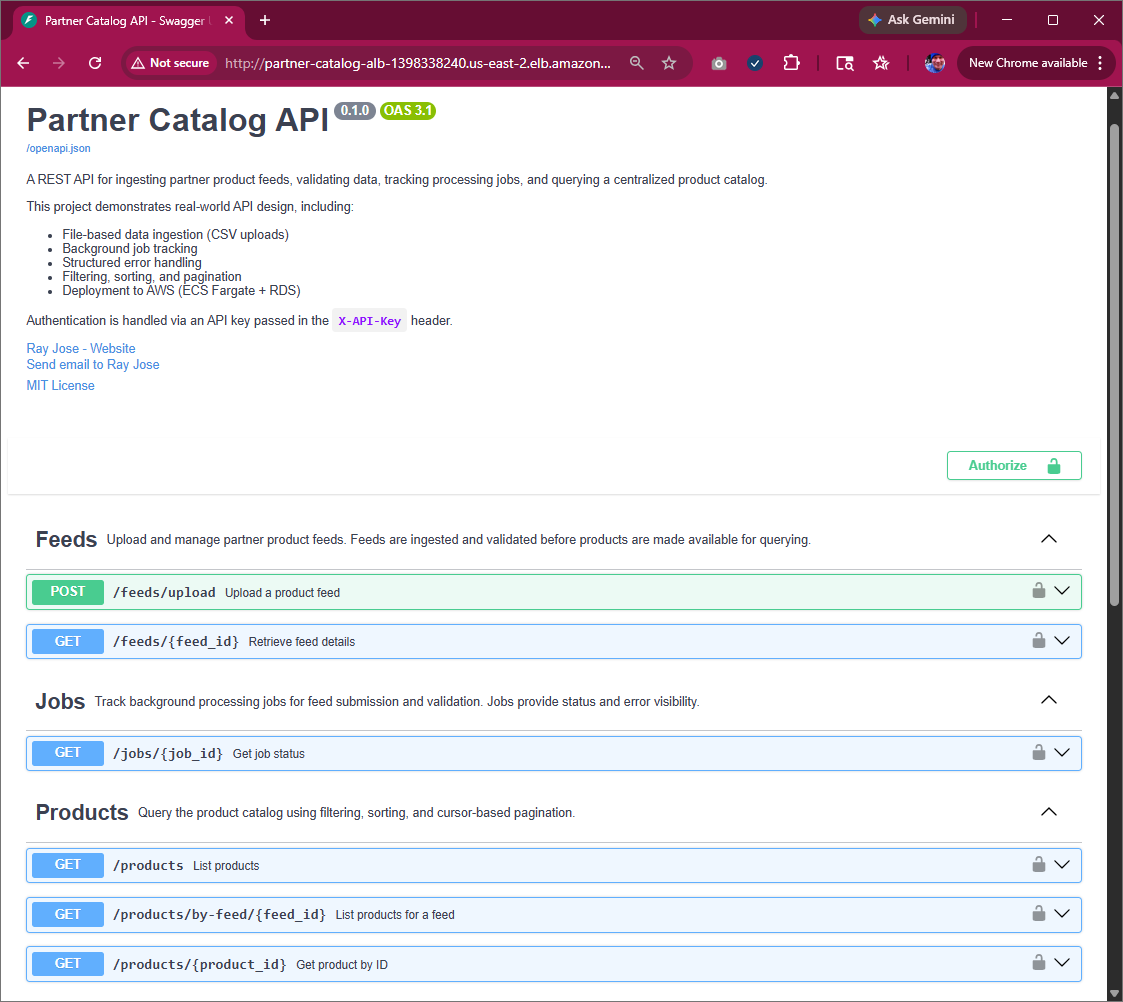
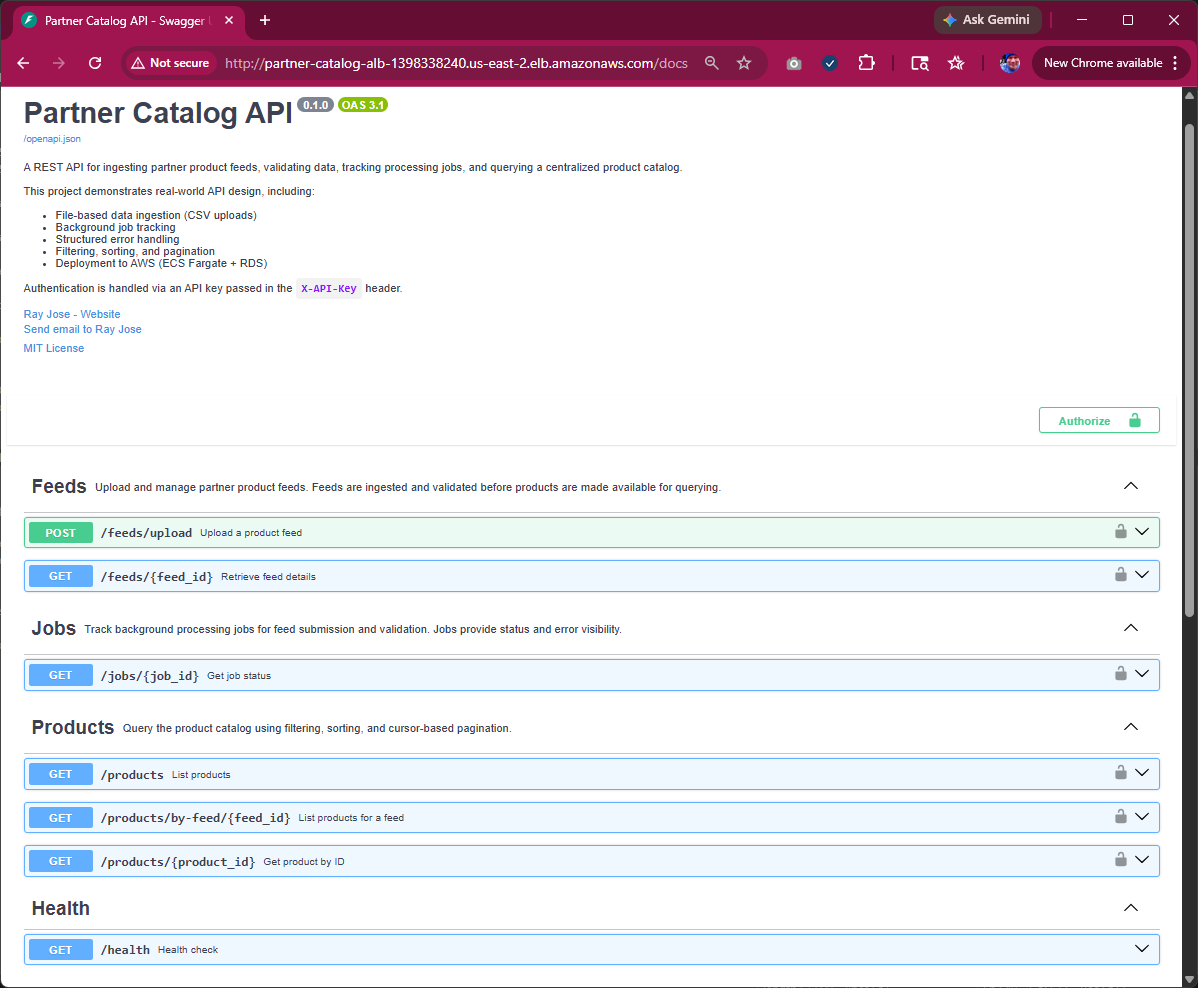
health endpoint updates

Changed region(s): [[0.0, 0.0, 1.0, 1.0]]

diff --git a/routers/health.py b/routers/health.py
@@ -1,0 +1,25 @@
+from fastapi import APIRouter
+from db import get_connection
+
+router = APIRouter()
+
+@router.get(
+    "/health",
+    summary="Health check",
+    description="Returns the health status of the API and database connection."
+)
+def health_check():
+    try:
+        conn = get_connection()
+        conn.close()
+
+        return {
+            "status": "ok",
+            "database": "connected"
+        }
+
+    except Exception:
+        return {
+            "status": "error",
+            "database": "unreachable"
+        }

diff --git a/main.py b/main.py
@@ -1,5 +1,5 @@
 from fastapi import FastAPI
-from routers import feeds, jobs, products
+from routers import feeds, jobs, products, health
 from db import init_db
 
 tags_metadata = [
@@ -49,3 +49,4 @@ init_db()
 app.include_router(feeds.router, tags=["Feeds"])
 app.include_router(jobs.router, tags=["Jobs"])
 app.include_router(products.router, tags=["Products"])
+app.include_router(health.router, tags=["Health"])

diff --git a/docs/screenshots.md b/docs/screenshots.md
@@ -6,6 +6,12 @@ This section provides visual evidence of the Partner Catalog API running in a pr
 The API is exposed through a public load balancer and provides interactive documentation via Swagger UI.
 ![swagger-overview.png](screenshots/swagger-overview.png)
 
+## Health Check Endpoint
+
+The `/health` endpoint verifies API availability and database connectivity. The Application Load Balancer uses this endpoint for target group health checks.
+![Health Check Endpoint](screenshots/swagger-health-check-endpoint.png)
+
+
 ## ECS Task Definition and Container Configuration
 The task definition specifies the container image from Amazon ECR and runtime configuration, including environment variables used for database connectivity.
 
@@ -38,7 +44,7 @@ The container image for the API is stored in Amazon Elastic Container Registry a
 
 ## Target Group Health Checks
 The target group monitors the health of running tasks using an HTTP health check endpoint to ensure traffic is only routed to healthy containers.
-![Target Group](screenshots/pcapi-ec2-target-group.png)
+![Target Group Health Checks](screenshots/pcapi-ec2-target-group-health-check.png)
 
 ## Amazon RDS PostgreSQL Database
 The API persists data in a PostgreSQL database hosted on Amazon RDS, providing managed storage and availability.

diff --git a/docs/resources.md b/docs/resources.md
@@ -104,6 +104,24 @@ All resources use structured identifiers for consistency and traceability:
 
 ---
 
+## Health Endpoint
+
+Used to verify API and database availability.
+
+### GET /health
+
+Returns the operational status of the API.
+
+**Response**
+
+```json
+{
+  "status": "ok",
+  "database": "connected"
+}
+```
+---
+
 ## Notes
 
 * All resources use `snake_case` field naming in API responses

diff --git a/docs/deployment.md b/docs/deployment.md
@@ -185,7 +185,7 @@ docker push 792233688886.dkr.ecr.us-east-2.amazonaws.com/partner-catalog-api:lat
 
 ## Health Check Behavior
 
-* ALB performs HTTP health checks against `/docs`
+* ALB performs HTTP health checks against `/health`
 * Container must start successfully and establish database connectivity
 * Failed health checks result in task replacement by ECS
 

diff --git a/docs/index.md b/docs/index.md
@@ -1,6 +1,6 @@
 # Partner Catalog API
 
-A demo REST API that simulates real-world partner product ingestion workflows, including feed upload, validation, and product retrieval.
+A containerized REST API for ingesting and querying partner product catalogs, deployed on AWS ECS with a PostgreSQL backend.
 
 ---
 
